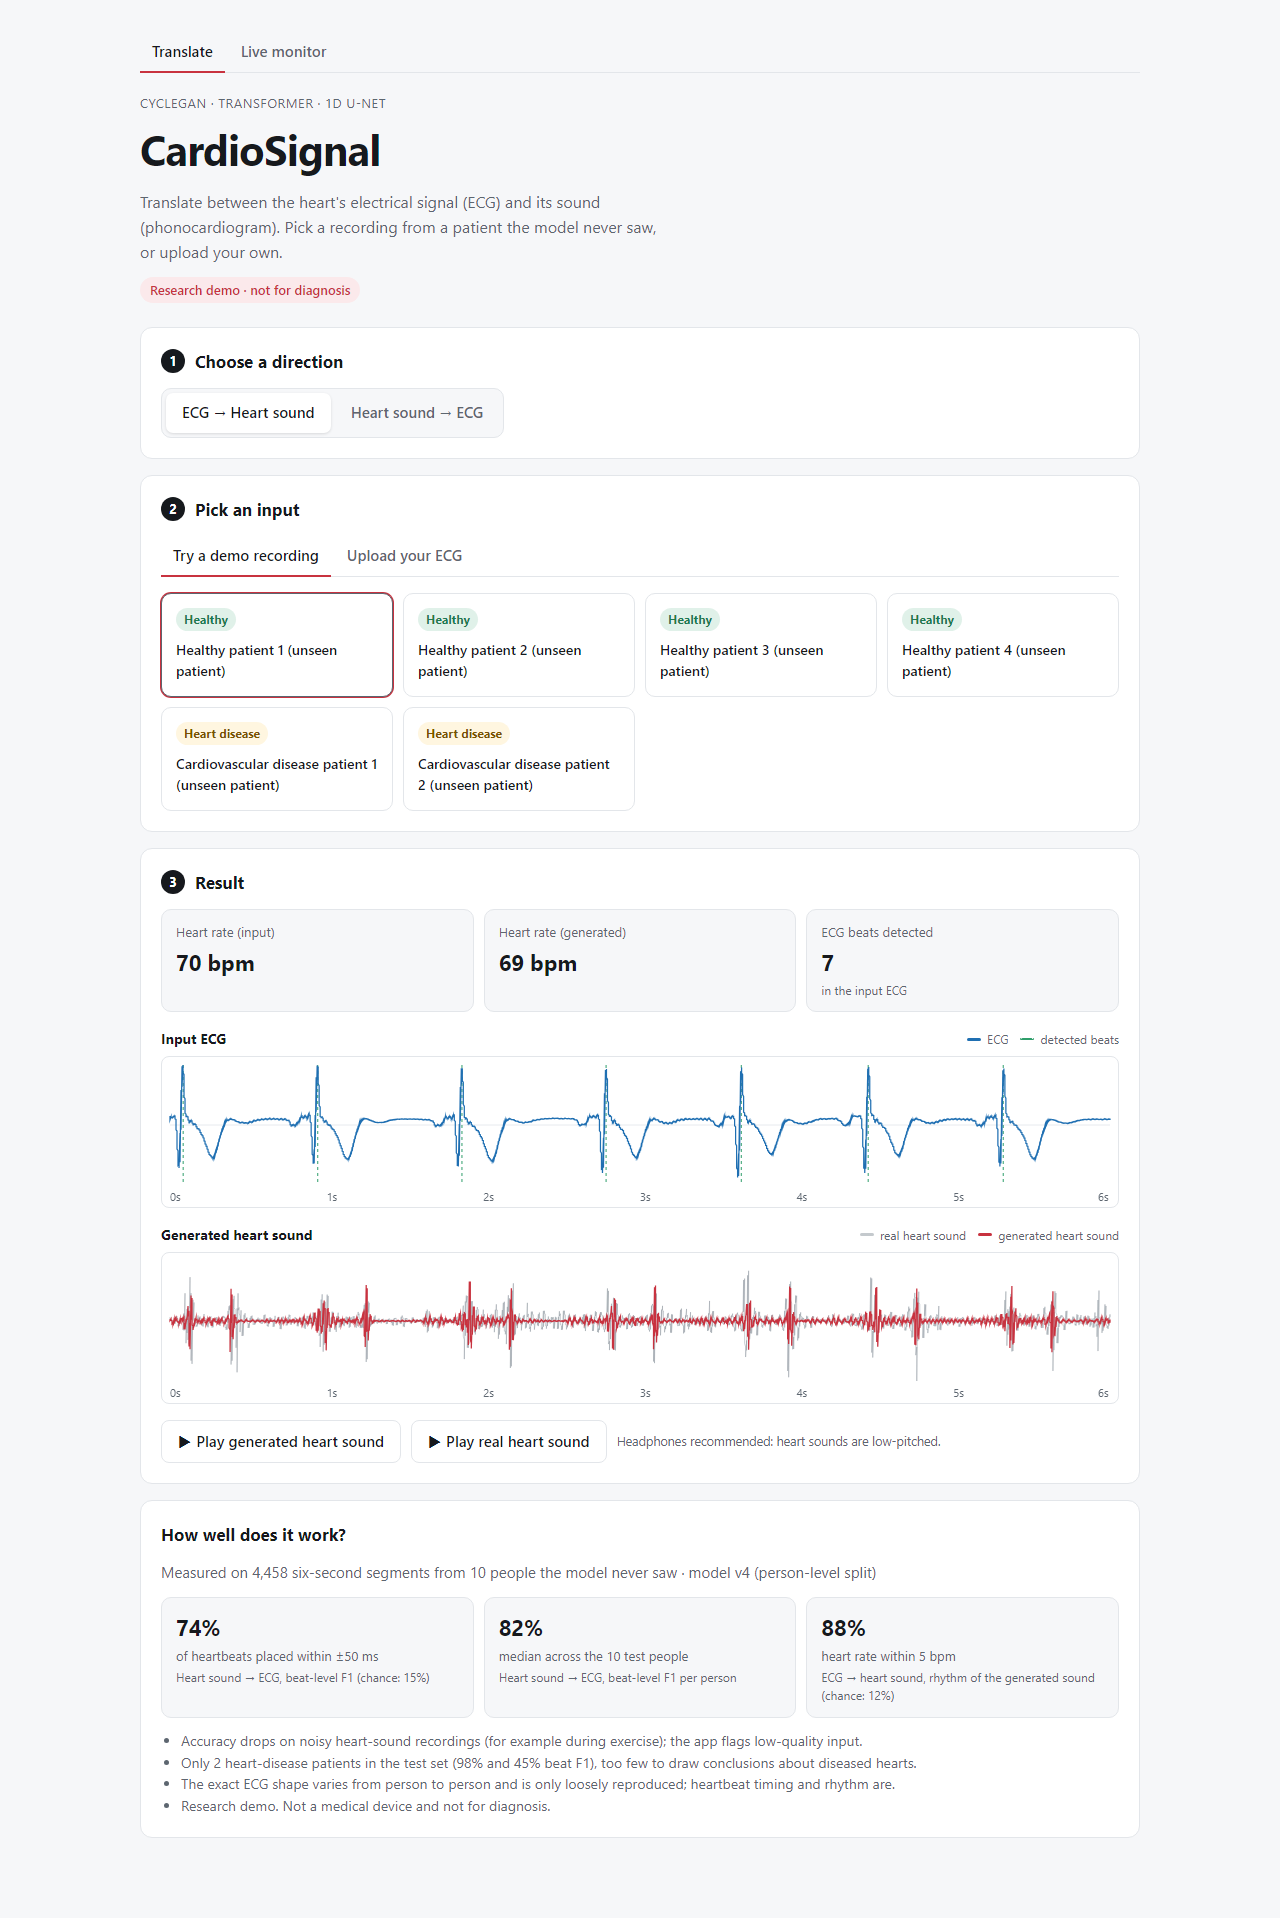
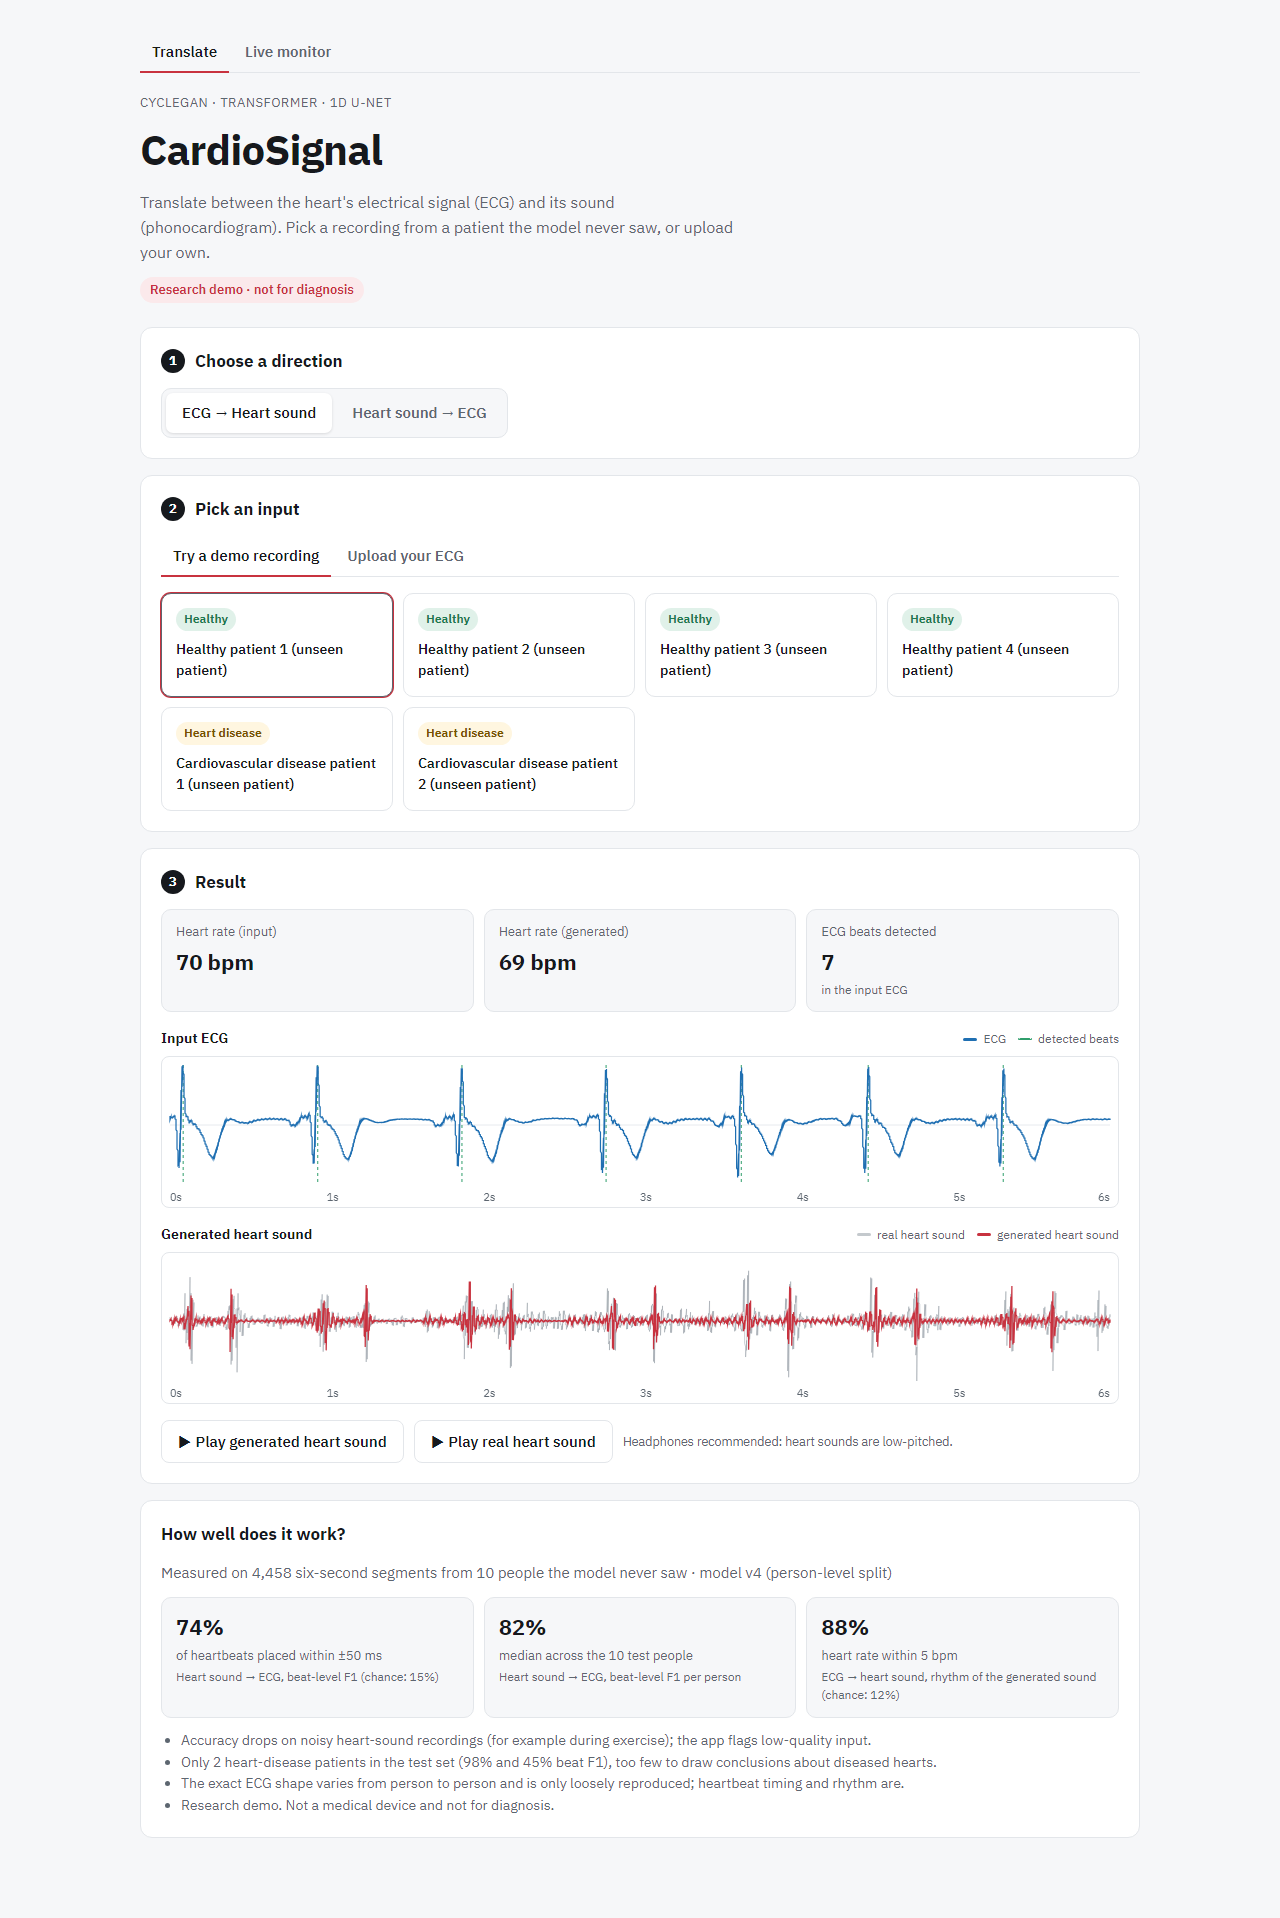
switch the font to ibm plex sans (bundled, so it works with the csp)

diff --git a/app/frontend/src/styles.css b/app/frontend/src/styles.css
@@ -1,4 +1,6 @@
 :root {
+  --font-sans: "IBM Plex Sans", system-ui, -apple-system, "Segoe UI", Roboto, sans-serif;
+  --font-mono: "IBM Plex Mono", ui-monospace, "Cascadia Mono", Consolas, monospace;
   --bg: #f6f7f9;
   --surface: #ffffff;
   --border: #e3e6ea;
@@ -45,8 +47,9 @@ body {
   margin: 0;
   background: var(--bg);
   color: var(--text);
-  font: 15px/1.55 system-ui, -apple-system, "Segoe UI", Roboto, sans-serif;
+  font: 15px/1.55 var(--font-sans);
 }
+
 
 .page { max-width: 1040px; margin: 0 auto; padding: 32px 20px 64px; }
 
@@ -189,3 +192,6 @@ button:disabled { cursor: not-allowed; opacity: .6; }
   .results .stats { grid-template-columns: repeat(2, minmax(0, 1fr)); }
   .stat-value { font-size: 19px; }
 }
+
+/* Vital-sign numbers: monospaced digits stay put as values update every second. */
+.hr-value { font-family: var(--font-mono); font-weight: 500; letter-spacing: -.02em; }

diff --git a/app/frontend/src/components/SignalChart.tsx b/app/frontend/src/components/SignalChart.tsx
@@ -61,7 +61,7 @@ export function SignalChart({ series, sampleRate, beats = [], windowSeconds = 6,
 
     ctx.strokeStyle = resolveColor(canvas, "var(--grid)");
     ctx.fillStyle = resolveColor(canvas, "var(--text-muted)");
-    ctx.font = "11px system-ui, sans-serif";
+    ctx.font = `11px ${getComputedStyle(canvas).getPropertyValue("--font-sans").trim() || "sans-serif"}`;
     ctx.lineWidth = 1;
     ctx.beginPath();
     ctx.moveTo(PADDING.left, y(0));

diff --git a/app/frontend/src/main.tsx b/app/frontend/src/main.tsx
@@ -1,5 +1,10 @@
 import { StrictMode } from "react";
 import { createRoot } from "react-dom/client";
+import "@fontsource/ibm-plex-sans/400.css";
+import "@fontsource/ibm-plex-sans/500.css";
+import "@fontsource/ibm-plex-sans/600.css";
+import "@fontsource/ibm-plex-sans/700.css";
+import "@fontsource/ibm-plex-mono/500.css";
 import App from "./App";
 import "./styles.css";
 
